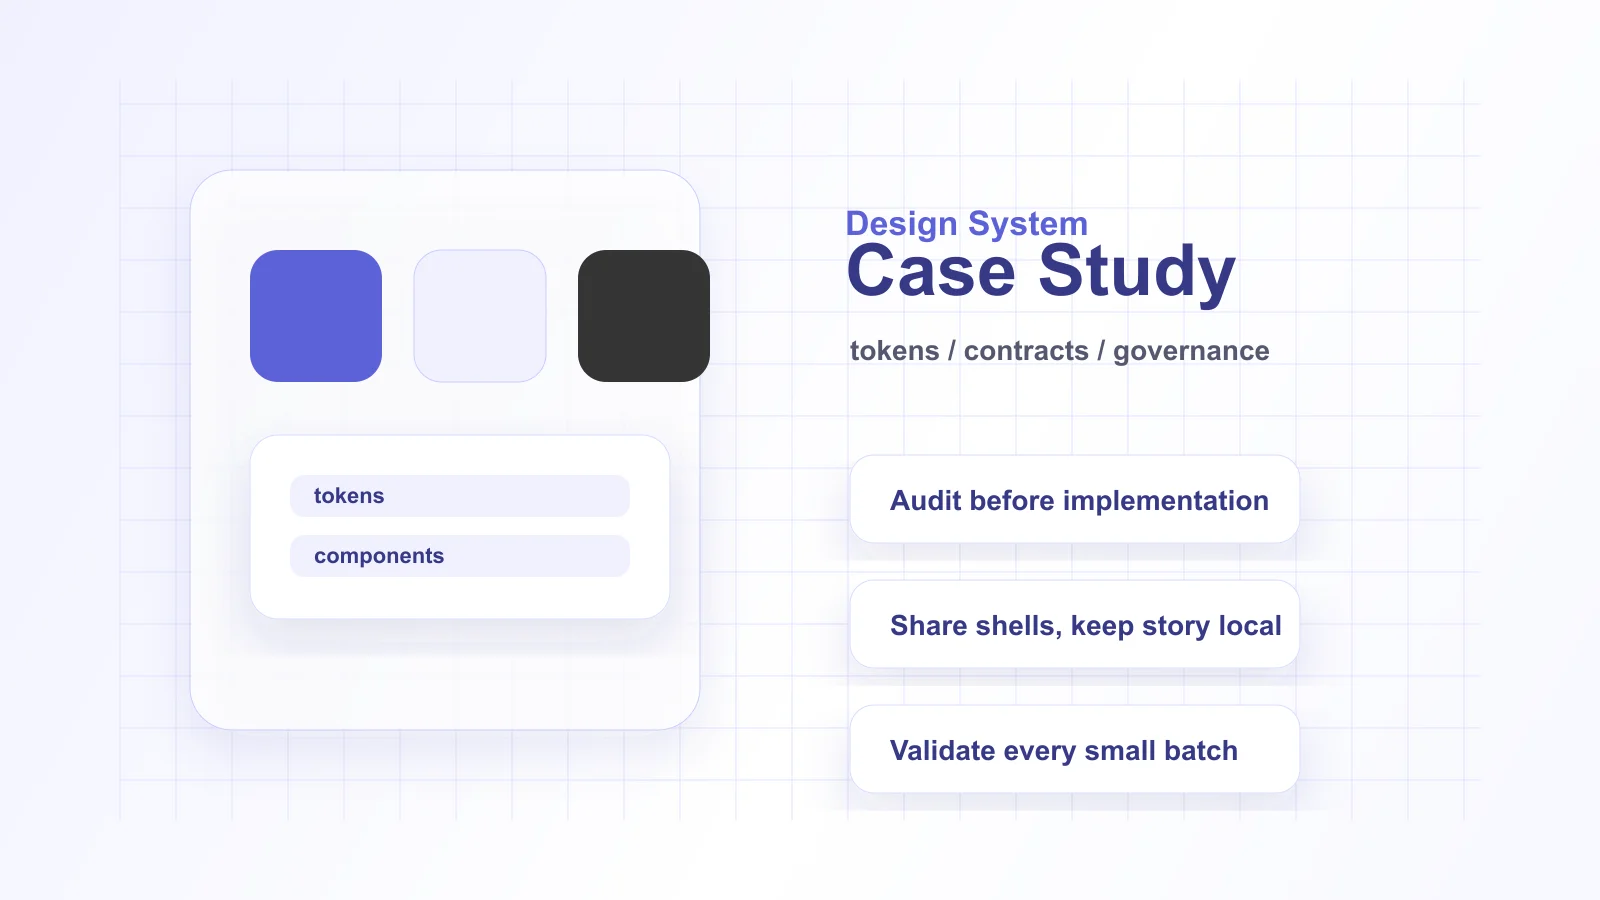
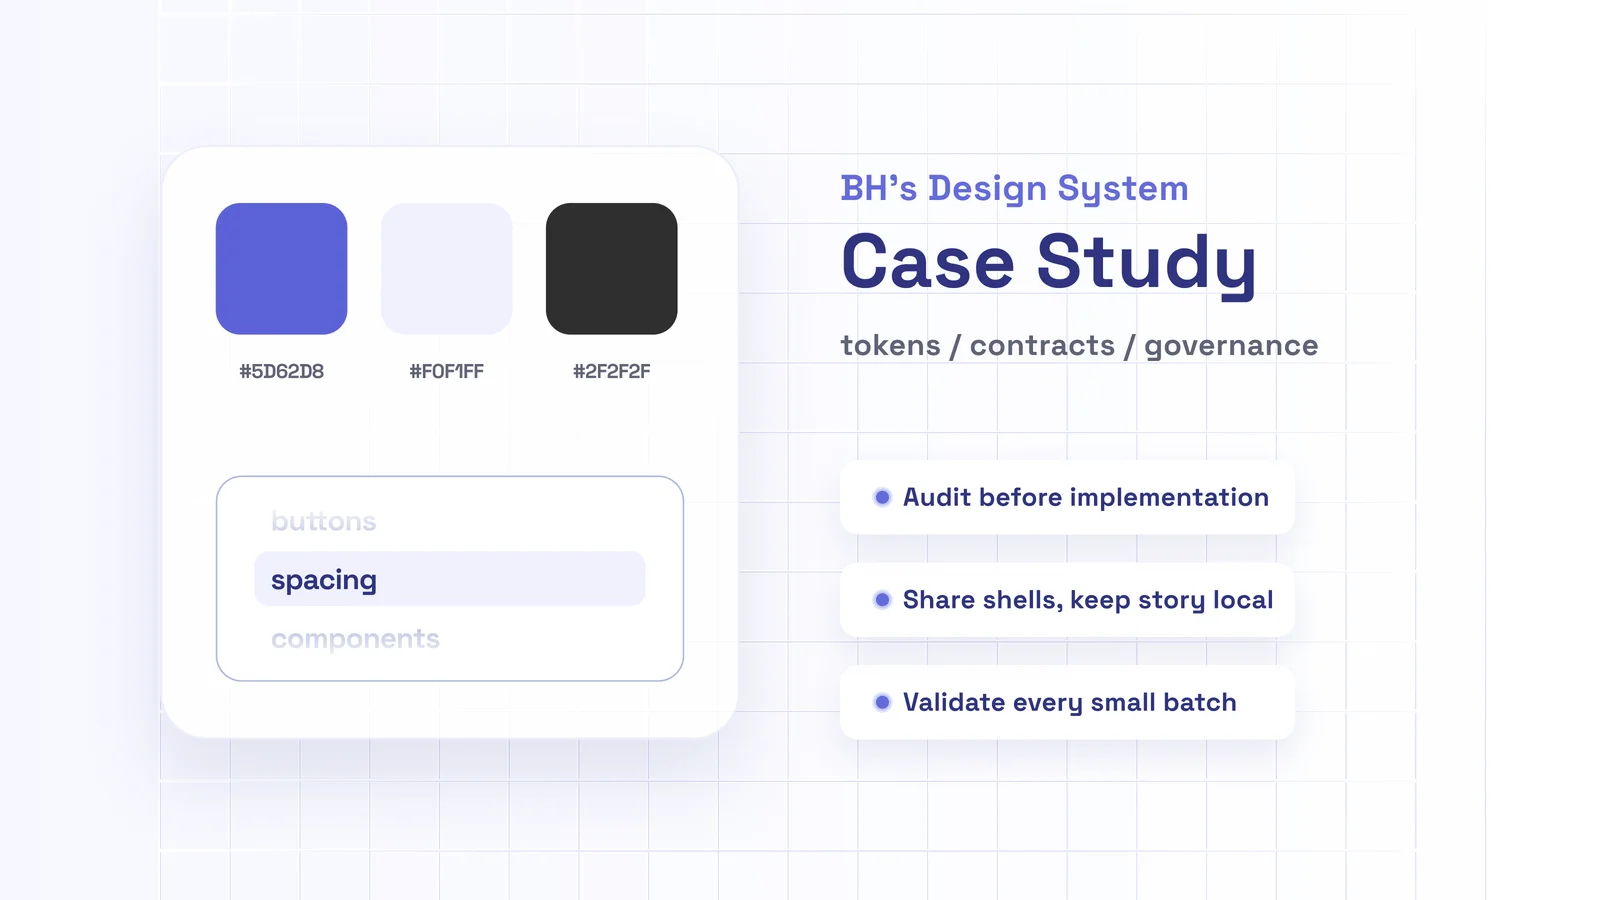
feat(works): DS case study 進首頁 Academic & Side Projects 第一列
- data/projects.ts：zh/en 各加一筆 design-system-case-study（school tab 首位），
  hover 字卡含標題、期間、描述、四標籤與 self-initiated 敘事
- 封面換 Hming 提供的新版 cover（1600x900 webp q85），案例頁 hero 同步
- 新增 logo.webp（自封面源檔裁切 swatch＋BH's Design System 字標組合）
- styles/home.css 依既有 tone 擴充模式新增 .tone-design-system 標籤配色
- 案例頁 next-nav 接上 /laushu（原為待串接占位）
- 驗證：lint/tokens/build 過；兩 tab 卡片順序與零回歸；1440/390 溢出 0

diff --git a/data/projects.ts b/data/projects.ts
@@ -60,6 +60,24 @@ const zhProjects: ProjectSummary[] = [
       "量化交易平台 Crypto Arsenal 的策略倉位顯示、手動平倉與止盈止損功能設計案例研究。",
   },
   {
+    slug: "design-system-case-study",
+    title: "把自己的作品集當產品做：一套邊用邊長出來的 Design System",
+    navigationTitle: "作品集 Design System 建置與治理",
+    date: "2026.05 - 2026.07",
+    description:
+      "在打造這個作品集網站的過程中，我把網站本身當成產品，自發建立一套 design system：從 design tokens、元件契約到與 AI 協作的治理規則。這一頁記錄的不是完美結果，而是翻車、修正、再長出制度的三次轉折。",
+    cover: "/projects/design-system-case-study/cover/cover.webp",
+    logo: "/projects/design-system-case-study/cover/logo.webp",
+    tags: ["Design System", "自發專案", "AI 協作", "設計治理"],
+    tone: "design-system",
+    category: "school",
+    status: "published",
+    href: "/design-system-case-study",
+    nextProjectSlug: "laushu",
+    seoDescription:
+      "把作品集當產品經營：design tokens、component contract 與 AI 協作治理的 design system 建置案例研究。",
+  },
+  {
     slug: "laushu",
     title: "從紙本化繁為簡：勞務報酬系統的數位流程優化",
     navigationTitle: "勞務報酬系統數位流程優化",
@@ -144,6 +162,24 @@ const enProjects: ProjectSummary[] = [
     nextProjectSlug: "tba",
     seoDescription:
       "A case study on position visibility, manual closing, and take-profit / stop-loss flows for the Crypto Arsenal quantitative trading platform.",
+  },
+  {
+    slug: "design-system-case-study",
+    title: "Treating My Portfolio as a Product: A Design System That Grew Through Iteration",
+    navigationTitle: "Portfolio Design System & Governance",
+    date: "2026.05 - 2026.07",
+    description:
+      "While building this portfolio site, I treated it as a real product and built a design system from scratch — design tokens, component contracts, and AI-collaboration governance. This case documents the turning points and recoveries, not just the polished result.",
+    cover: "/projects/design-system-case-study/cover/cover.webp",
+    logo: "/projects/design-system-case-study/cover/logo.webp",
+    tags: ["Design System", "Self-initiated", "AI Collaboration", "Design Governance"],
+    tone: "design-system",
+    category: "school",
+    status: "published",
+    href: "/design-system-case-study",
+    nextProjectSlug: "laushu",
+    seoDescription:
+      "A case study on building and governing a portfolio design system: design tokens, component contracts, and AI-collaboration workflow.",
   },
   {
     slug: "laushu",

diff --git a/app/design-system-case-study/page.tsx b/app/design-system-case-study/page.tsx
@@ -352,7 +352,8 @@ export default function DesignSystemCaseStudyPage() {
       tocSections={tocSections}
       nextNav={{
         homeLabel: "返回首頁",
-        nextLabel: "下一個專案：Phase 3 待串接",
+        nextHref: "/laushu",
+        nextLabel: "下一個專案：勞務報酬系統數位流程優化",
       }}
       hero={<Hero />}
     >

diff --git a/styles/home.css b/styles/home.css
@@ -1098,6 +1098,16 @@
   color: var(--tag-text);
 }
 
+.tone-design-system {
+  --tag-bg: #f0f1ff;
+  --tag-text: #363986;
+}
+
+.tone-design-system .project-tags span {
+  background: var(--tag-bg);
+  color: var(--tag-text);
+}
+
 .project-empty-state {
   margin-top: auto;
   padding: 16px;
